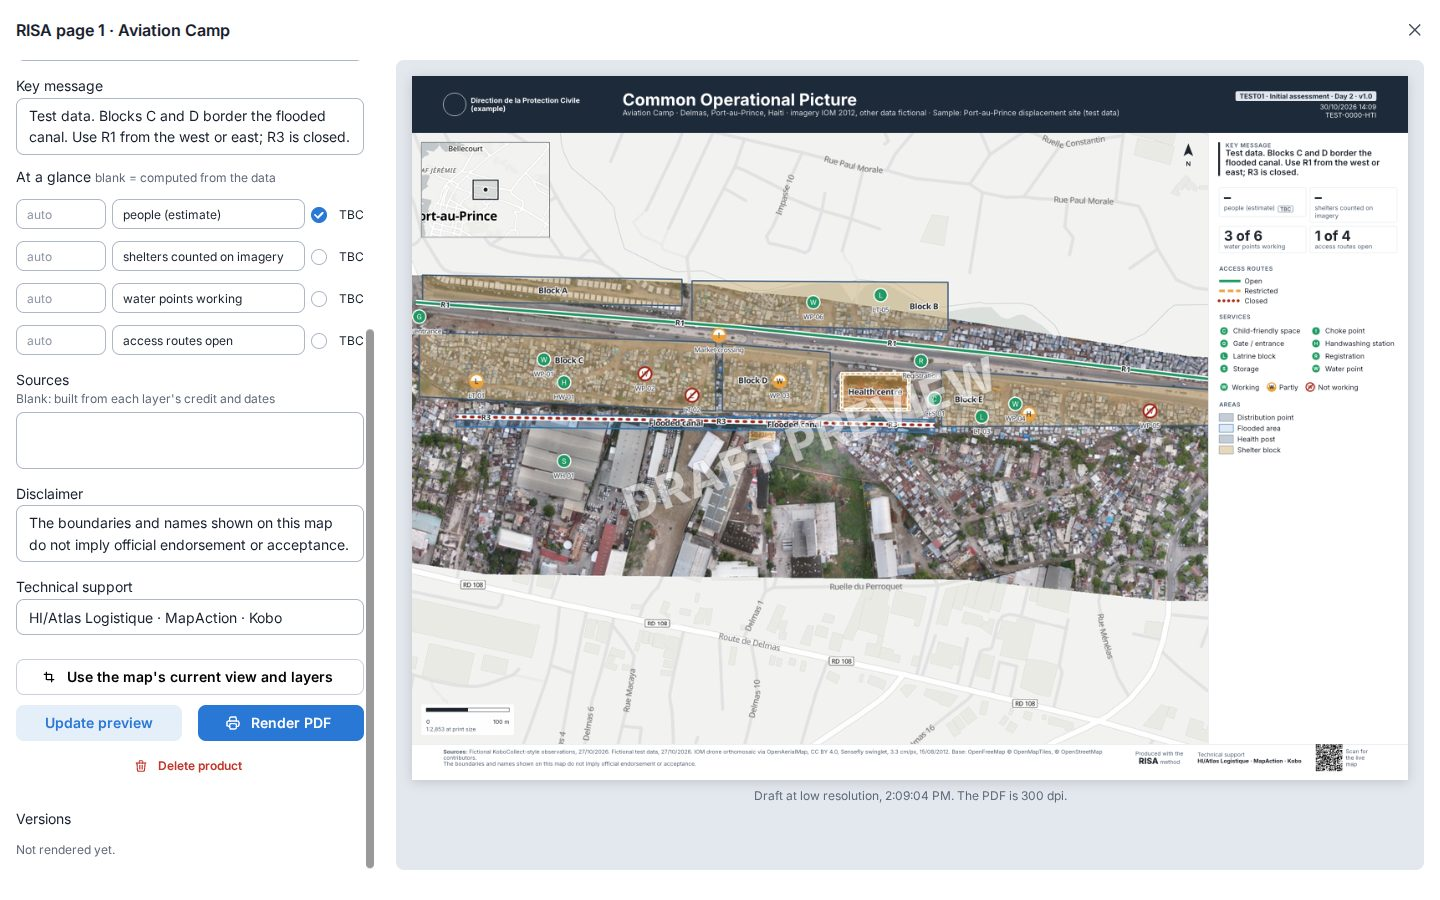
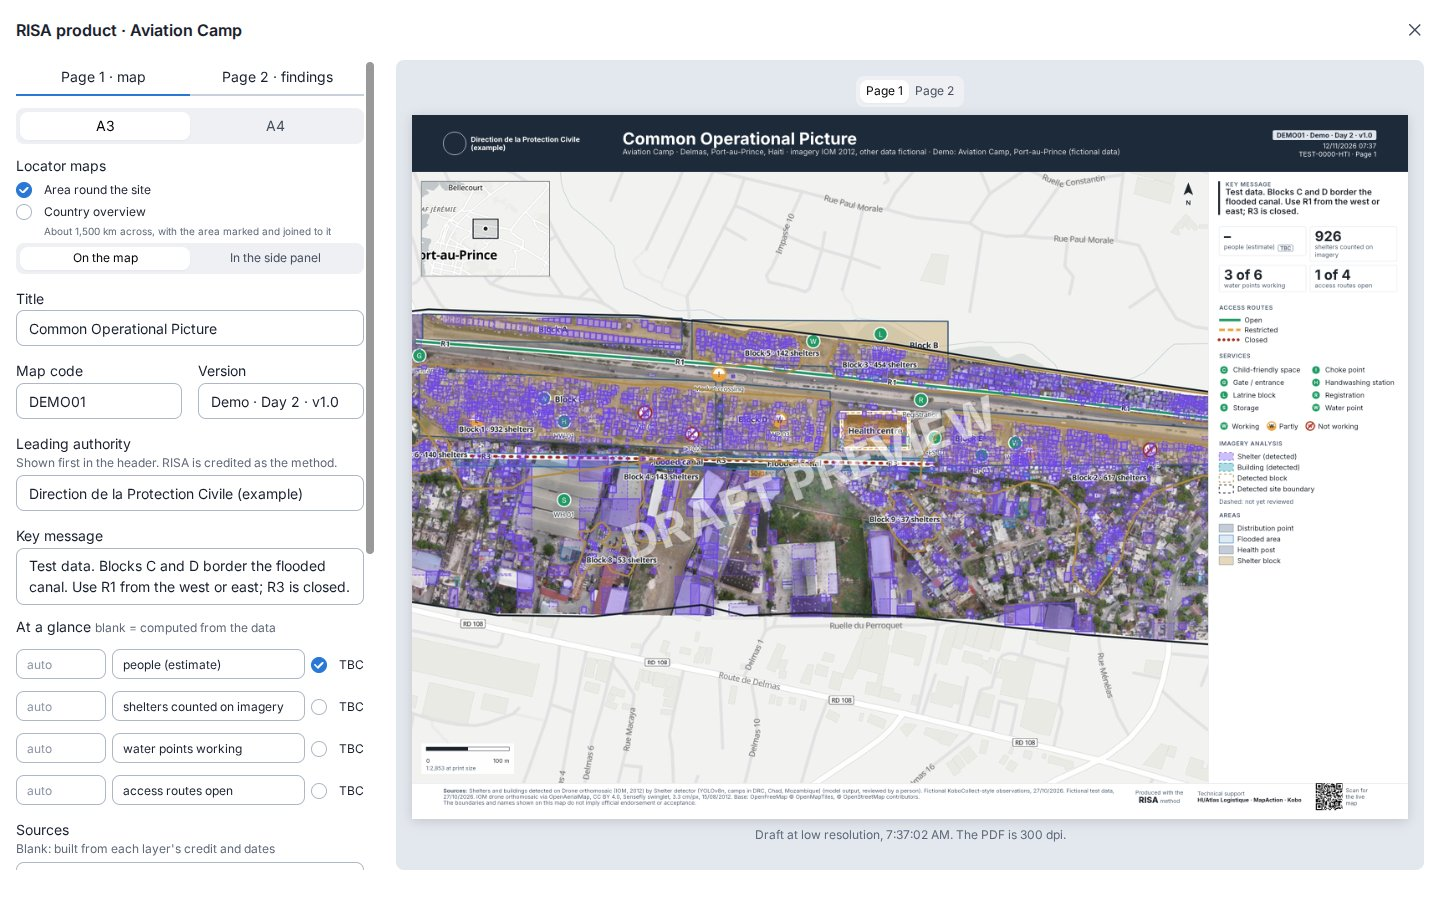
Guide: pages 1 and 2, with the editor's tabs and page 2 shots
The printed-products section covers page 2: what comes from the map, the line on
access, people per shelter, suggesting and editing the gaps, the page switch, and
what people without the edit key see. product.jpg retaken on the editor's Page 1
tab, page2.jpg new (scripts/guide-shots.py ONLY=product,page2). The checklist, notes,
nav, products tour, README, plan and concept note follow: page 3 is what's left.

diff --git a/frontend/public/guide/index.html b/frontend/public/guide/index.html
@@ -16,7 +16,7 @@
       <li><a href="#run">Where it runs</a></li>
       <li><a href="#start">Getting started</a></li>
       <li><a href="#kobo">Kobo data</a></li>
-      <li><a href="#page1">Page 1</a></li>
+      <li><a href="#page1">Pages 1–2</a></li>
       <li><a href="#offline">Offline</a></li>
       <li><a href="#privacy">Data protection</a></li>
       <li><a href="#checklist">Checklist</a></li>
@@ -61,7 +61,7 @@
     <li><a href="#map">The map</a></li>
     <li><a href="#figures">Figures and table</a></li>
     <li><a href="#ai">Imagery analysis</a></li>
-    <li><a href="#page1">Page 1</a></li>
+    <li><a href="#page1">Pages 1–2</a></li>
     <li><a href="#share">Share and export</a></li>
     <li><a href="#offline">Offline and low bandwidth</a></li>
     <li><a href="#checklist">Checklist</a></li>
@@ -84,7 +84,7 @@
   <li><strong>Runs where your data must stay</strong>On the consortium's instance, self-hosted on your own server, fully offline on a field kit, or (planned) as a network of kits with a hub.</li>
 </ul>
 <p>Everything belongs to a <strong>response</strong> (an emergency, such as "Venezuela: earthquake, June 2026"), and each response has <strong>sites</strong>. A site has its own map, layers, figures and printed products.</p>
-<div class="note"><p>This is the MVP. The map, imagery, Kobo, drawing, measuring, page 1, the locator maps and exports work. The imagery analysis finds shelters with a real, open model trained on camp imagery, as suggestions for a person to review; a simulated stand-in remains for comparison, and the analysis tab's situation brief is example output. Embedding the map in other websites is planned. Pages 2 and 3 of the RISA product are still to come.</p></div>
+<div class="note"><p>This is the MVP. The map, imagery, Kobo, drawing, measuring, pages 1 and 2 of the RISA product, the locator maps and exports work. The imagery analysis finds shelters with a real, open model trained on camp imagery, as suggestions for a person to review; a simulated stand-in remains for comparison, and the analysis tab's situation brief is example output. Embedding the map in other websites is planned. Page 3 of the RISA product (the hotspot, with before and after imagery) is still to come.</p></div>
 </section>
 
 <section id="run">
@@ -136,7 +136,7 @@
   <li>On the home page, choose <strong>New response</strong>.</li>
   <li>Give it a name people will recognise (for example <em>Venezuela: earthquake, June 2026</em>), the hazard, the country's three-letter code (<code>VEN</code>), the GLIDE number if there is one, and the start date.</li>
   <li>Choose the <strong>product language</strong>. Page 1's headings and legend follow it: English, Spanish or French. Portuguese uses the English headings for now. Everything you type on the page can be in any language.</li>
-  <li>If your team has a feedback form, paste its link (see <a href="#page1">Page 1</a>). You can add one later.</li>
+  <li>If your team has a feedback form, paste its link (see <a href="#page1">Pages 1 and 2</a>). You can add one later.</li>
   <li>Some instances need a <strong>create key</strong> to start a response. Ask whoever runs the instance.</li>
 </ol>
 <figure><a href="static/shots/new-response.jpg"><img src="static/shots/new-response.jpg" width="1440" height="900" alt="The New response form: name, hazard, country, GLIDE number, start date, product language and an optional feedback form."></a><figcaption>Creating a response.</figcaption></figure>
@@ -280,8 +280,8 @@
 </section>
 
 <section id="page1">
-<h2>RISA page 1</h2>
-<p>Page 1 is the Common Operational Picture: one landscape page that a site manager, a cluster coordinator or a national authority can read in a minute.</p>
+<h2>RISA pages 1 and 2</h2>
+<p>Page 1 is the Common Operational Picture: one landscape page that a site manager, a cluster coordinator or a national authority can read in a minute. Page 2, optional, sets out the key findings: one column per RISA question, ending with where to act first. Both print in one PDF.</p>
 
 <h4>Make it</h4>
 <ol>
@@ -299,9 +299,19 @@
     </ul>
   </li>
   <li><strong>Update preview</strong> shows a draft of the page. If you move the map, <strong>Use the map's current view and layers</strong> takes the new frame.</li>
-  <li><strong>Render PDF</strong>. The server makes the page at 300 dpi; an A3 is about 1.4 MB, small enough for WhatsApp or email.</li>
+  <li><strong>Render PDF</strong>. The server makes the pages at 300 dpi; an A3 page 1 is about 1.4 MB, small enough for WhatsApp or email.</li>
 </ol>
-<figure><a href="static/shots/product.jpg"><img src="static/shots/product.jpg" width="1440" height="900" alt="The page 1 editor: the key message, at-a-glance figures, sources, disclaimer and technical support on the left, with Update preview and Render PDF; on the right, a draft of the A3 page with its header band, the map with a locator inset, the key message, figures, legend, sources and QR code."></a><figcaption>The page 1 editor and its preview.</figcaption></figure>
+<figure><a href="static/shots/product.jpg"><img src="static/shots/product.jpg" width="1440" height="900" alt="The page 1 editor: the key message, at-a-glance figures, sources, disclaimer and technical support on the left, with Update preview and Render PDF; on the right, a draft of the A3 page with its header band, the map with a locator inset, the key message, figures, legend, sources and QR code."></a><figcaption>The editor, on its Page 1 tab, with a draft of the page.</figcaption></figure>
+
+<h4>Page 2: key findings</h4>
+<p>On the editor's <strong>Page 2 · findings</strong> tab, turn on <strong>Print page 2</strong>. Most of it comes from the map:</p>
+<ul>
+  <li><strong>Can we reach people?</strong> The access routes and their status, then the <strong>logistics conditions</strong>: storage, landing zones, gates and choke points you've mapped. Add a line <strong>On access</strong>, such as which route trucks should use.</li>
+  <li><strong>Which services still work?</strong> The services table; <strong>shelters by block</strong>, counting accepted shelters inside the blocks you drew (or the detected blocks if you drew none); and the people and households, estimated from <strong>People per shelter</strong> (5 unless you change it) and always printed TBC.</li>
+  <li><strong>Where do we act first?</strong> Up to five gaps, most urgent first, each with what to do and who acts. <strong>Suggest from the map</strong> drafts them: closed routes, services not working, hazard areas over shelters, then restricted routes and services partly working, in the response's language. Then edit them: the map can't know which matters most on the ground, or who's already acting. Mark each <strong>Urgent</strong> or <strong>High</strong>, reorder, remove or add your own.</li>
+</ul>
+<figure><a href="static/shots/page2.jpg"><img src="static/shots/page2.jpg" width="1440" height="900" alt="The editor on its Page 2 tab: Print page 2 turned on, the line on access, people per shelter, and five suggested gaps with their status, text and who acts. On the right, a draft of page 2: access routes and logistics, the services table and shelters by block with the population estimate, and the five gaps ranked."></a><figcaption>Page 2, with the gaps suggested from the map and edited.</figcaption></figure>
+<p>The preview switches between the pages. Anyone who opens a product without the edit key sees the pages as last printed, with a link to the PDF.</p>
 
 <h4>Versions and QR codes</h4>
 <ul>
@@ -378,7 +388,8 @@
   <li>Connect the Kobo project and check <strong>Map form to RISA</strong>: types and statuses right, sensitive questions left out.</li>
   <li>Draw what the form doesn't cover: the site boundary, blocks, routes and their status, flooded areas.</li>
   <li>Check the data table and the summary. Do the figures make sense?</li>
-  <li>Make page 1: frame, key message, figures (TBC where estimated), version label. Render it.</li>
+  <li>Make page 1: frame, key message, figures (TBC where estimated), version label.</li>
+  <li>Turn on page 2: suggest the gaps from the map, then put them in order and say who acts. Check the people per shelter. Render the PDF.</li>
   <li>Send the PDF and the site link, and note the version you sent.</li>
 </ol>
 

diff --git a/frontend/src/tours.ts b/frontend/src/tours.ts
@@ -118,8 +118,8 @@ export const siteTour = ({ showSummary, showAi }: { showSummary: () => void; sho
   },
   {
     target: 'products',
-    title: 'RISA page 1',
-    body: 'Frame the map and make the Common Operational Picture at A3 or A4: key message, figures, legend, sources and a QR code to the live map. It’s rendered on the server at 300 dpi, small enough to send on WhatsApp, and every version is kept.',
+    title: 'RISA pages 1 and 2',
+    body: 'Frame the map and make the Common Operational Picture at A3 or A4: key message, figures, legend, sources and a QR code to the live map. Add page 2, the key findings, with the gaps to act on suggested from the map. It’s rendered on the server at 300 dpi, small enough to send on WhatsApp, and every version is kept.',
     side: 'left',
     before: showSummary,
   },

diff --git a/scripts/guide-shots.py b/scripts/guide-shots.py
@@ -6,8 +6,8 @@ same response, which changes nothing.
     docker compose exec -T -e SLUG=<response> -e KEY=<edit-key> worker python - < scripts/guide-shots.py
     docker compose cp worker:/tmp/shots/. frontend/public/guide/static/shots/
 
-ONLY=bundle,bundle-import takes some of them. "ai" needs the demo response
-(seed_sample.py --demo: SLUG=demo, its key). The guide's other shots (the site, a
+ONLY=bundle,bundle-import takes some of them. "ai", "product" and "page2" need the demo
+response (seed_sample.py --demo: SLUG=demo, its key), "page2" with page 2 turned on. The guide's other shots (the site, a
 feature with its Kobo photo, the Kobo dialog, the summary, the data table and the page 1
 editor) were taken by hand from the sample with the box's demo Kobo project
 (kobo-in-a-box remote/risa/demo-kobo.py) connected.
@@ -61,6 +61,30 @@ def main():
             page.get_by_role("tab", name="AI analysis").click()
             page.wait_for_timeout(6000)
             shot(page, "ai")
+
+        if want("product") or want("page2"):
+            # The demo's product, with page 2 on: page 1's tab, then page 2's, each previewed
+            site = __import__("json").loads(urllib.request.urlopen(f"{API}/api/responses/{SLUG}").read())
+            page.goto(f"{BASE}/r/{SLUG}/{site['sites'][0]['slug']}", wait_until="networkidle")
+            page.locator(".layer-row a").first.click()
+            page.wait_for_timeout(1500)
+            if want("product"):
+                page.get_by_role("button", name="Update preview").click()
+                page.wait_for_timeout(25000)
+                page.get_by_role("button", name="Page 1", exact=True).click(timeout=2000) if page.get_by_role(
+                    "button", name="Page 1", exact=True).count() else None
+                # The editor's fields from the top, with its tabs
+                page.get_by_role("dialog").locator(".mantine-ScrollArea-viewport").first.evaluate("e => e.scrollTo(0, 0)")
+                page.wait_for_timeout(1500)
+                shot(page, "product")
+            if want("page2"):
+                page.get_by_role("tab", name="Page 2 · findings").click()
+                page.wait_for_timeout(1500)
+                if page.get_by_text("Page 2", exact=True).count():
+                    page.get_by_text("Page 2", exact=True).last.click()
+                page.wait_for_timeout(2500)
+                shot(page, "page2")
+            page.keyboard.press("Escape")
 
         bundle = "/tmp/sample.risa.zip"
         if want("bundle") or want("bundle-import"):

diff --git a/README.md b/README.md
@@ -14,7 +14,8 @@ Stack: Django 5.2 + GeoDjango + PostGIS, Django Ninja, Procrastinate (Postgres j
 - **Kobo**: connect a project on kf, eu, or any server on `ALLOWED_SERVERS` (an `http://` server only when listed exactly, e.g. `http://kf.kobo.local`). The token is stored encrypted and never reaches the browser. Points come from the first geopoint question; type and status are guessed from the form and adjustable ("Map form to RISA"). Photos are proxied. Syncs every 10 minutes and on demand.
 - **Drawing**: points, lines and areas with type, status and label; edit and reshape them.
 - **RISA symbology** from [`symbology/risa.json`](symbology/risa.json): the reserved status colours, always shown twice (colour plus line style or symbol shape).
-- **Page 1**: frame the map, set title, code, version, authority, key message and at-a-glance figures (computed, overridable, TBC flags). A second QR code goes to the feedback form, when one is set. Locator maps are optional: the area round the site, and a country overview joined to it by leader lines (as on MapAction's maps), on the map's corner or at the top of the side panel. The worker renders the map and locators in headless Chromium at 300 dpi, and [Typst](backend/risa/typst/page1.typ) lays out the page around them: vector text, legend symbols as SVG, about 1.4 MB for an A3. The editor's preview is a low-resolution draft of the same render. Page labels in English, Spanish and French follow the response's language. Versions are kept.
+- **Page 1**: frame the map, set title, code, version, authority, key message and at-a-glance figures (computed, overridable, TBC flags). A second QR code goes to the feedback form, when one is set. Locator maps are optional: the area round the site, and a country overview joined to it by leader lines (as on MapAction's maps), on the map's corner or at the top of the side panel. The worker renders the map and locators in headless Chromium at 300 dpi, and [Typst](backend/risa/typst/page1.typ) lays out the page around them: vector text, legend symbols as SVG, about 1.4 MB for an A3. The editor's preview is a low-resolution draft of the same render. Page labels in English, Spanish and French follow the response's language. Versions are kept. Each print also saves an image of every page, which people without the edit key see in the editor.
+- **Page 2 (key findings)**: optional, in the same PDF, one column per RISA question ([`risa/page2.py`](backend/risa/page2.py)): access routes and their status, a line on access, logistics conditions (storage, landing zones, gates, choke points); the services table, accepted shelters per block (inside the drawn blocks, else the detected ones), people and households from a household size per response (TBC); and up to five ranked gaps with who acts, suggested from the map (closed routes, services not working, hazard areas over shelters, restricted routes) in the response's language and edited by the team.
 - **Data table**: the records of a Kobo or vector layer under the map, with photos (a template image when there's none), search and a status filter. A row frames the feature on the map.
 - **AI analysis (example output only)**: a tab showing what an imagery and field-data model could return: a situation brief, shelters and people per block, findings checked against Sphere standards (water per person and distance, flood exposure, access, data quality), suggested priorities, and notes on photos. Nothing runs a model yet; [`frontend/src/analysis.ts`](frontend/src/analysis.ts) makes the output from the site's data, and the shelter counts are made up.
 - **Imagery analysis**: in the AI analysis tab, **Detect shelters on imagery** finds shelters and buildings on the orthomosaic (current view or the whole image) with a chosen detector, groups shelters into blocks and outlines the site, with progress while it runs. Detectors are plug-ins ([`risa/detectors/`](backend/risa/detectors/__init__.py)): **YOLOv8n shelters**, an open model trained on camp drone imagery in DRC, Chad and Mozambique ([alex6H](https://github.com/alex6H/RefugeeCampShelterDetection-YOLOv8), MIT), on CPU with ONNX Runtime, weights pinned in the image ([`scripts/fetch-models.sh`](scripts/fetch-models.sh)); and the **simulated** colour rules, kept for comparison. Results are suggestions: dashed until a person accepts them, one at a time or by confidence; they can be re-tagged and reshaped like drawn features, and only accepted shelters count on page 1. **Models** scores each run against a layer of reference shelters (precision, recall, F1, the share of confident detections that are wrong, at each threshold; [`risa/evaluation.py`](backend/risa/evaluation.py), `manage.py evaluate`). On 99 shelters marked by eye in the Haiti sample ([`scripts/sample/`](scripts/sample/haiti-reference-shelters.geojson)): F1 0.79 for the model, 0.29 for the stand-in. The contract, training data and evaluation for model partners: [`docs/models.md`](docs/models.md).
@@ -24,7 +25,7 @@ Stack: Django 5.2 + GeoDjango + PostGIS, Django Ninja, Procrastinate (Postgres j
 - **Export**: a GeoPackage of every vector layer (GeoPackage 1.2, opens in QGIS and ArcGIS Pro); GeoJSON and CSV per layer (⋯ menu) or every layer in a zip (Export menu), the CSV for spreadsheets (type and status in words, longitude/latitude, WKT, every field, UTF-8 with BOM for Excel); the COG and the original upload per layer. Each table's QGIS style is in the GeoPackage's `layer_styles` table, so QGIS opens it as the map draws it: page 1's point symbols, status colours and line styles, fills by type, analysis results dashed until accepted, and labels; a rule per type and status in the table, so the legend lists only what's there. [`risa/qml.py`](backend/risa/qml.py). Checked in QGIS 3.42; ArcGIS Pro ignores QGIS styles.
 - **Response bundles**: a whole response in one zip, to move it between instances (cloud → box → cloud, by USB drive when there's no link) and to archive it: sites, layers, features (review decisions included), COGs, Kobo field maps (not tokens), products, page 1 versions and their PDFs, detector versions, and a GeoPackage per site. **Bundle** on a response's page, **Import bundle** on the home page, or `manage.py bundle export <response> <file>` and `manage.py bundle import <file>`. Imagery can be left out to send only the work done on it. A manifest written last lists every file with its SHA-256, so a cut-off or damaged copy is refused. Import merges by UUID: the bundle's rows are created or updated, others are kept, each vector layer's features are replaced by the bundle's, and importing again changes nothing. Importing into a response that's already there needs its edit key; a new one keeps the edit key it had. A bundle older than changes made here since the last import, or than a bundle already imported, is stopped until someone chooses **Import anyway** (`--allow-older`), since it would undo them; Kobo syncs count as changes. [`risa/bundles.py`](backend/risa/bundles.py). Not yet encrypted or incremental (planned for federation).
 
-Not yet: pages 2 and 3, boundaries and pre-event imagery in packs, the drop folder, swipe between imagery dates, generated OpenAPI client. See the plan.
+Not yet: page 3 (the hotspot), boundaries and pre-event imagery in packs, the drop folder, swipe between imagery dates, generated OpenAPI client. See the plan.
 
 ## Run it locally
 

diff --git a/plans/mvp.md b/plans/mvp.md
@@ -31,7 +31,7 @@ The test for the MVP is the Venezuela response (MapAction is sharing the data). 
 
 ### Not in the MVP
 
-User accounts and roles. Pages 2 and 3 of the product (key findings, hotspot); the layout engine is built so they can be added next. Live sync between instances (the bundle covers it for now; federation is planned in section 2). Local text and vision models, the MCP server and the assistant (planned in sections 2 and 4, built after the MVP; the MVP's settings and API are shaped so they fit). Kobo webhooks (polling first). Interface translations; text on the printed product is free text, so Spanish and French maps work from day one. A real segmentation model (the MVP ships the review workflow with a simulated detector), in-browser photogrammetry.
+User accounts and roles. Page 3 of the product (hotspot); page 2 (key findings) was added on 12/11/2026, with gaps suggested from the map. Live sync between instances (the bundle covers it for now; federation is planned in section 2). Local text and vision models, the MCP server and the assistant (planned in sections 2 and 4, built after the MVP; the MVP's settings and API are shaped so they fit). Kobo webhooks (polling first). Interface translations; text on the printed product is free text, so Spanish and French maps work from day one. A real segmentation model (the MVP ships the review workflow with a simulated detector), in-browser photogrammetry.
 
 ---
 

diff --git a/docs/concept-note.md b/docs/concept-note.md
@@ -186,6 +186,7 @@ The MVP is running at **risa-dash.kobolabs.dev** with real drone imagery (IOM's 
 | Part | Status |
 |---|---|
 | Map, imagery, Kobo, drawing, measuring, page 1, exports | Working |
+| Page 2 of the product: key findings, with the gaps to act on suggested from the map | Working; page 3 (the hotspot, with before and after imagery) planned |
 | Locator maps and the feedback QR code and link | Working; the consortium's feedback form is still to be written in Kobo |
 | Sharing a site's live map by link | Working |
 | Embedding in partners' dashboards and websites (e.g. the Virtual OSOCC) | Planned: an embed view, links that keep the view, a per-response switch and a list of allowed sites, and a fixed link to the latest page 1. About 1–2 weeks of development |
